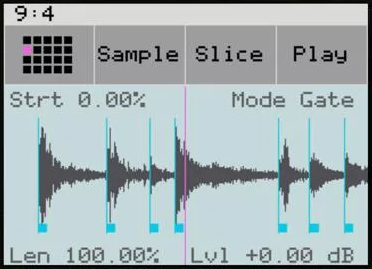
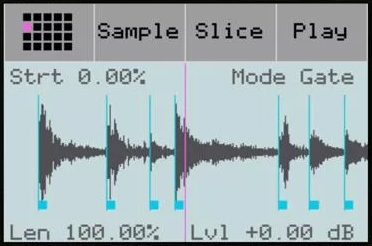
size adjustments

diff --git a/assets/css/style.css b/assets/css/style.css
@@ -57,9 +57,9 @@ button:active {
 .black-vents {
     margin: 0 auto;
     position: relative;
-    bottom: -100px;
-    width: 200px;
-    height: 150px;
+    bottom: -95px;
+    width: 175px;
+    height: 125px;
     background-image: url(../img/fake-screen.jpg);
     background-repeat: no-repeat;
     background-position: center;
